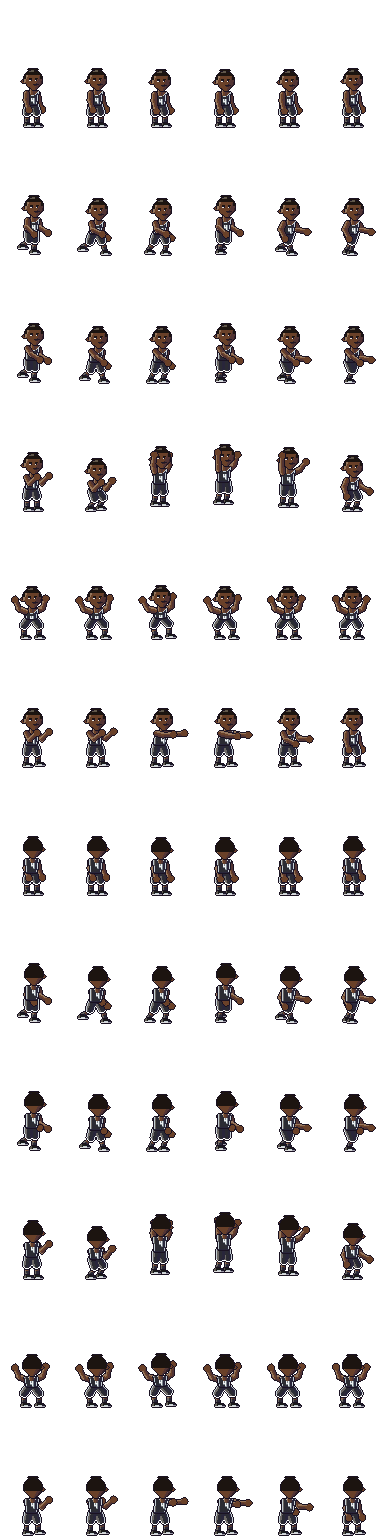
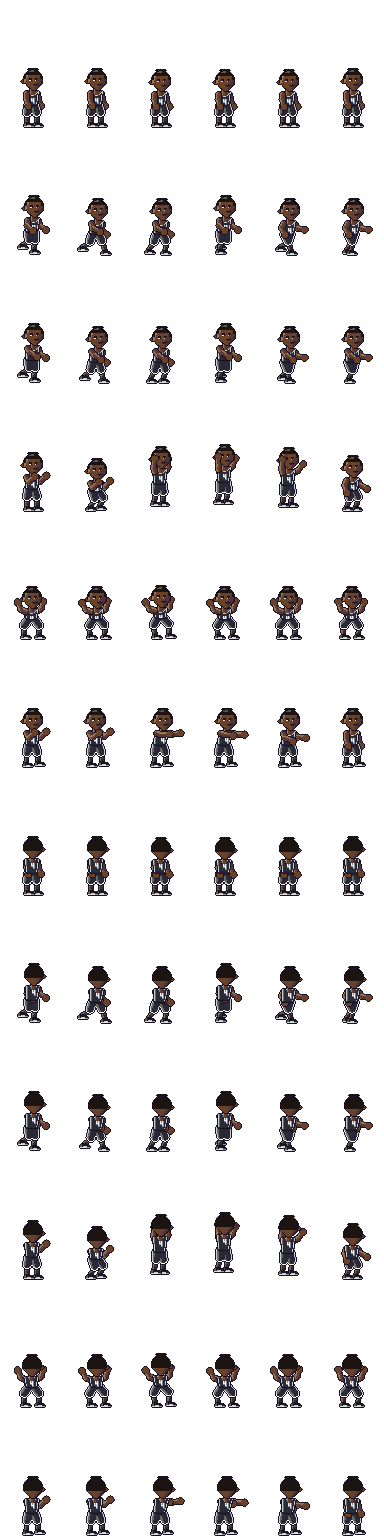
Shorten character arms for chibi proportions
Claude-Session: https://claude.ai/code/session_01LTKzMKRVJif4SPnst9Zi32

diff --git a/playcall/src/render/pixelchar.js b/playcall/src/render/pixelchar.js
@@ -488,7 +488,7 @@ export function renderFrame(player, colors, anim, f, dir) {
   const T = Math.round(body * (1 - (S.legRatio || 0.56)));
   const legLen = body - T - 4; // 扣掉鞋高
   const L1 = Math.round(legLen * 0.5), L2 = legLen - L1;
-  const armLen = T * 1.05 * (S.reach || 1);
+  const armLen = T * 0.78 * (S.reach || 1); // Q 版手短：一般人垂手只到腰下
   const A1 = Math.round(armLen * 0.5), A2 = Math.round(armLen * 0.5);
 
   const cx = 31 + p.shift;
